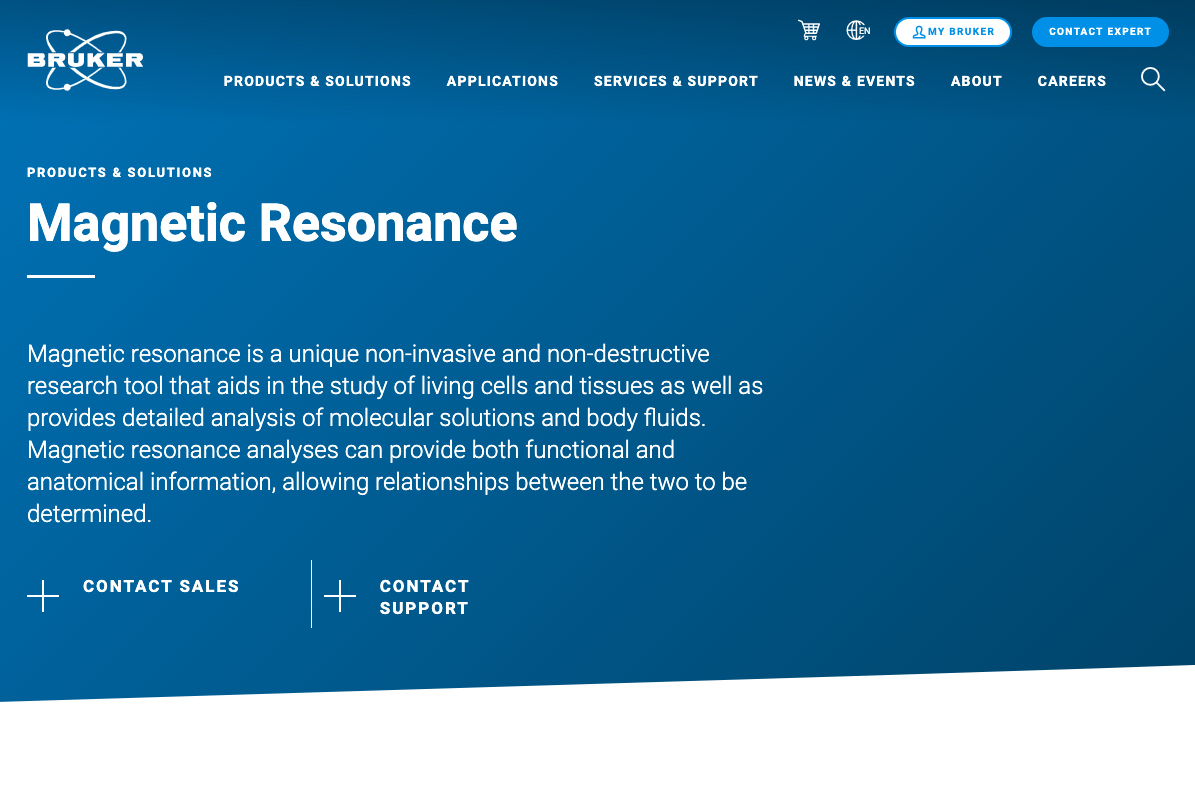
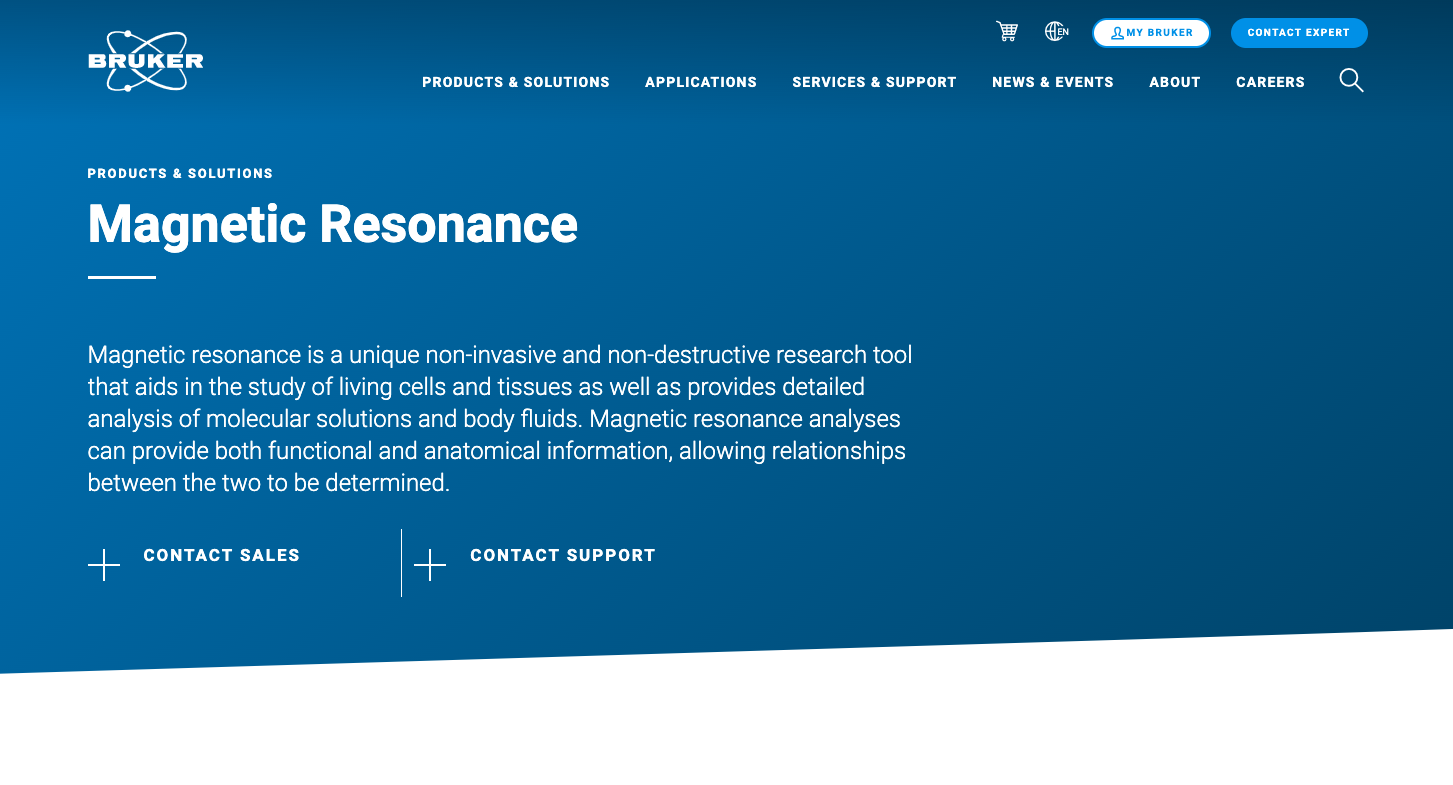
updating readme to include example project photos.

diff --git a/README.md b/README.md
@@ -24,15 +24,15 @@
 
 ## Media
 
-Products and Solutions Page:
+Bruker's Products and Solutions Page:
 ![Photo 1](./src/assets/images/site-screen-shot.png)
 
-What I've got so far:
+My Products and Solutions Page:
 ![Photo 1](./src/assets/images/example-screen-shot.png)
 
 ## Deployed Site
 
-Coming Soon
+Coming Soon.
 
 ## Features
 
@@ -49,7 +49,7 @@ celestealexmoore@gmail.com.
 
 ## Project Status
 
-In Progress
+Completed
 
 ---
 
